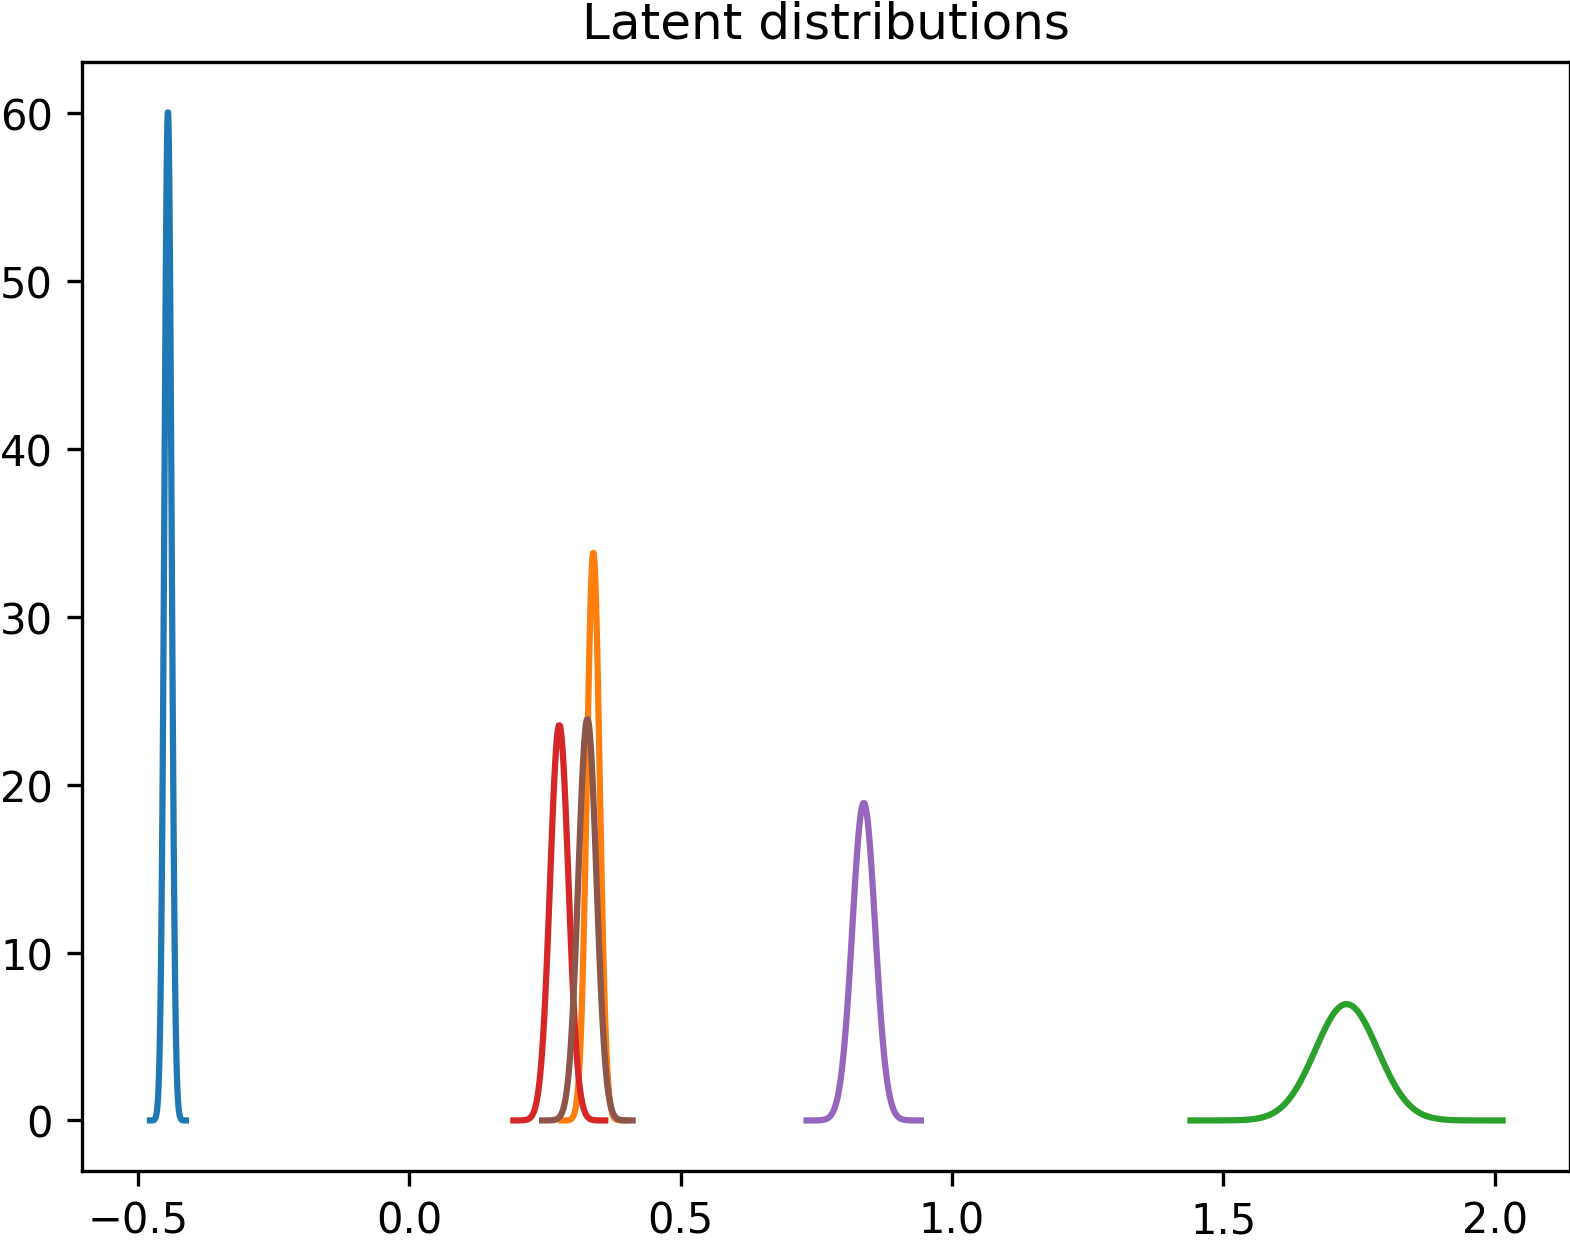
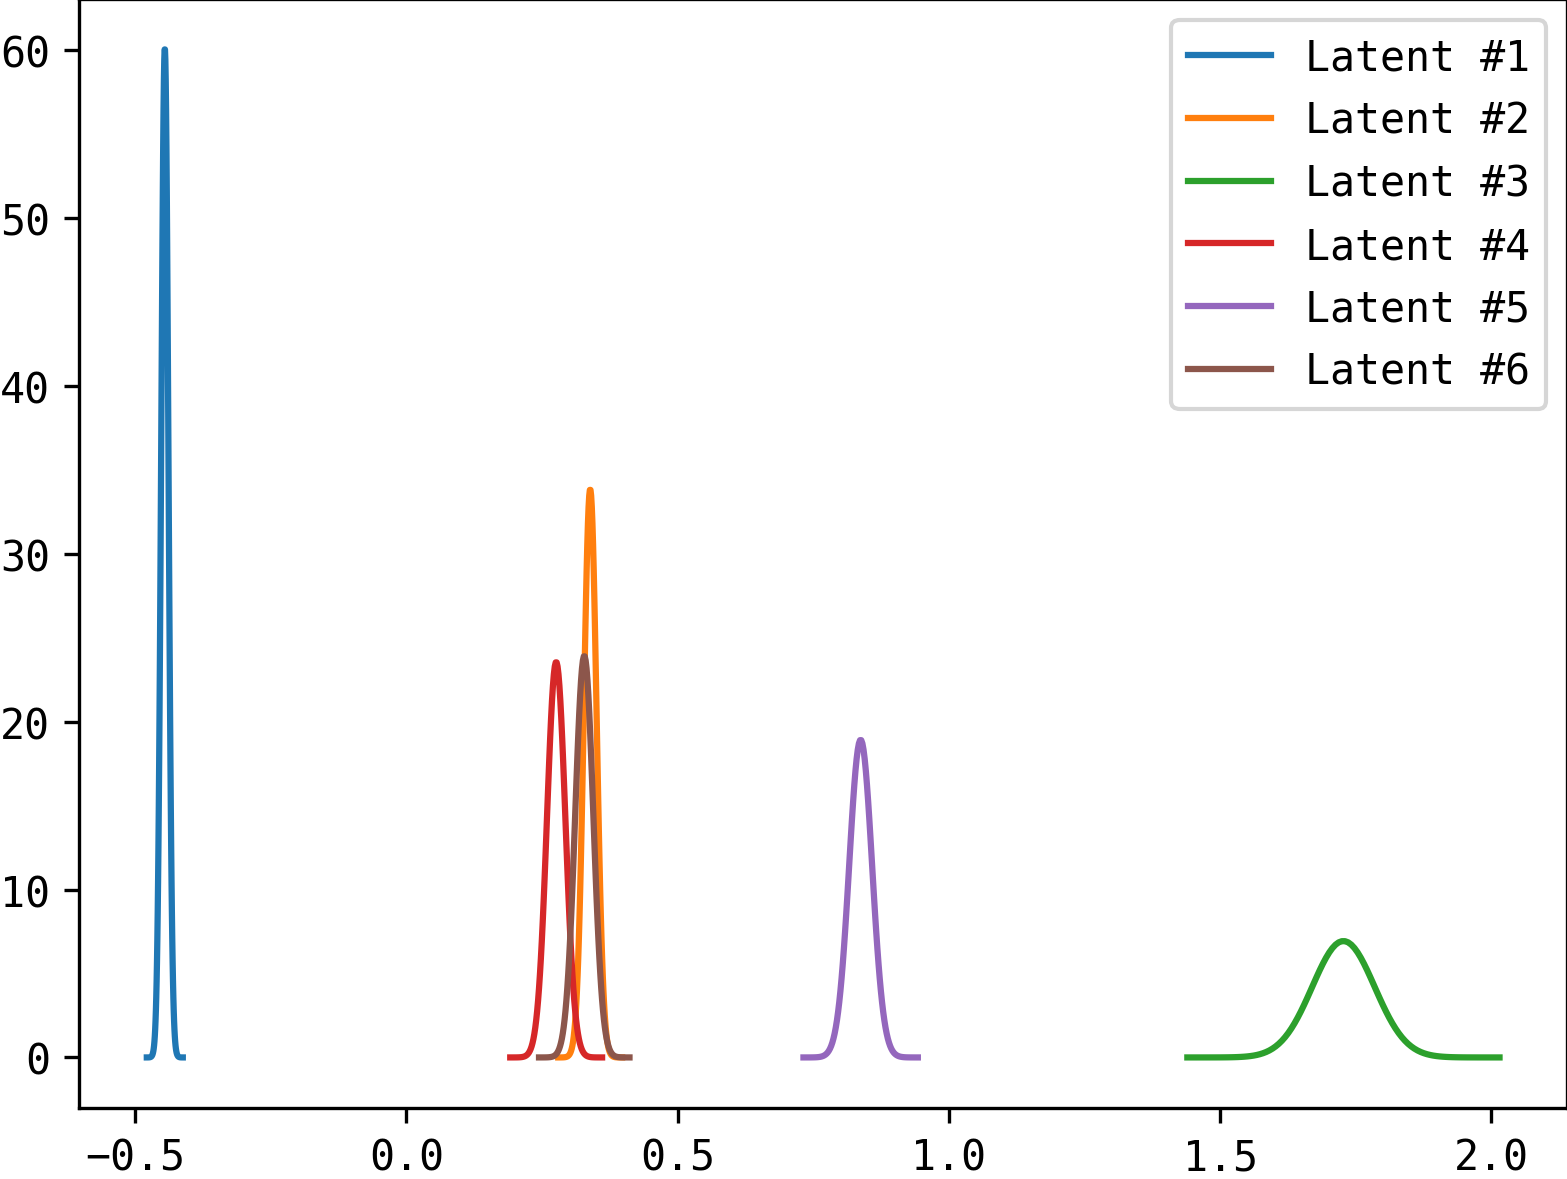
update latent figure

Changed region(s): [[0.0, 0.0, 1.0, 1.0], [0.7352, 0.2443, 0.7964, 0.2748]]

diff --git a/figures/vae_vs_linsub/plot_latent.py b/figures/vae_vs_linsub/plot_latent.py
@@ -20,6 +20,8 @@ print('> HOME: ', HOME_DIR)
 
 device = torch.device('cuda' if torch.cuda.is_available() else 'cpu')
 
+plt.rcParams['font.family'] = 'monospace'
+
 # %% read in and display the yaml config file
 with open(DIR + '/config.yaml', 'r') as f:
     config_dict = yaml.load(f, Loader=yaml.FullLoader)
@@ -61,12 +63,12 @@ means = means.detach().numpy()
 # %% Create MSE figure
 
 for i in range(N_latent):
-     std = stds[i]
-     mean = means[i]
-     x = np.linspace(mean - 5*std, mean + 5*std, 100)
-     plt.plot(x, stats.norm.pdf(x, mean, std))
-title = 'Latent distributions'
-plt.title(title)
+    std = stds[i]
+    mean = means[i]
+    x = np.linspace(mean - 5*std, mean + 5*std, 100)
+    plt.plot(x, stats.norm.pdf(x, mean, std), label='Latent #' + str(i+1))
+
+plt.legend()
 
 plt.savefig(DIR + '/vae_latent.png',
             bbox_inches='tight', pad_inches=0, dpi=300)
